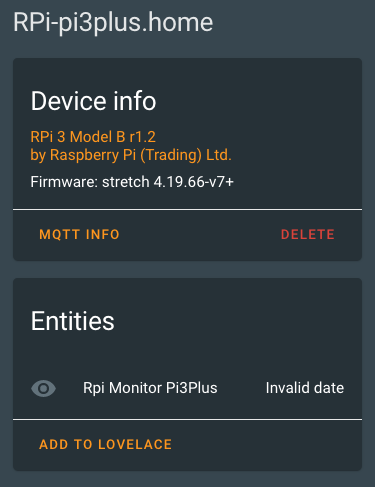
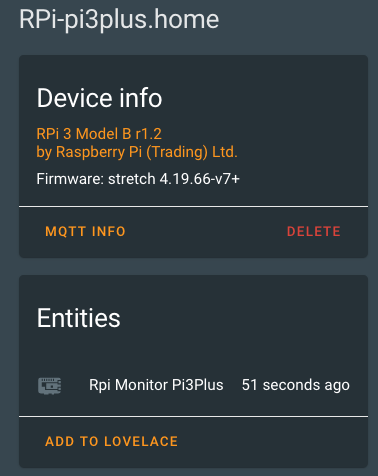
Latest working changes
- Leave + in *nix version
- Add scale to keynames
- minor README changes

diff --git a/ISP-RPi-mqtt-daemon.py b/ISP-RPi-mqtt-daemon.py
@@ -221,7 +221,7 @@ def getLinuxVersion():
            stdout=subprocess.PIPE, 
            stderr=subprocess.STDOUT)
     stdout,stderr = out.communicate()
-    rpi_linux_version = stdout.decode('utf-8').rstrip().replace('+', 'plus')
+    rpi_linux_version = stdout.decode('utf-8').rstrip()
     print_line('rpi_linux_version=[{}]'.format(rpi_linux_version), debug=True)
     
 
@@ -541,13 +541,26 @@ RPI_LINUX_RELEASE = "ux_release"
 RPI_LINUX_VERSION = "ux_version" 
 RPI_UPTIME = "up_time"
 RPI_DATE_LAST_UPDATE = "last_update"
-RPI_FS_SPACE = 'fs_total' # "fs_space_gbytes"
-RPI_FS_AVAIL = 'fs_free' # "fs_available_prcnt"
+RPI_FS_SPACE = 'fs_total_gb' # "fs_space_gbytes"
+RPI_FS_AVAIL = 'fs_free_prcnt' # "fs_available_prcnt"
 RPI_TEMP = "temperature_c"
 RPI_SCRIPT = "reporter"
 
 
 def send_status(timestamp, nothing):
+    global rpi_model
+    global rpi_connections
+    global rpi_hostname
+    global rpi_fqdn
+    global rpi_linux_release
+    global rpi_linux_version
+    global rpi_uptime
+    global rpi_last_update_date
+    global rpi_filesystem_space
+    global rpi_filesystem_percent
+    global rpi_system_temp
+    global rpi_mqtt_script
+
     rpiData = OrderedDict()
     rpiData[SCRIPT_TIMESTAMP] = timestamp.astimezone().replace(microsecond=0).isoformat()
     rpiData[RPI_MODEL] = rpi_model

diff --git a/README.md b/README.md
@@ -36,26 +36,32 @@ Each RPi device is reported as:
 | `Model`         | RPi 4 Model B v1.1  |
 | `Name`      | (fqdn) pimon1.home |
 | `sofware ver`  | OS Name, Version (e.g., Buster v4.19.75v7l+) |
-| `mac addr`       | mac: 00:00:00:00:00:00 |
-| `Ether IP addr`       | eth0: 00.00.00.00 |
-| `WiFi IP addr`       | wlan0: 00.00.00.00 |
 
-### Readings
 
-The RPi set of sensors provide the following readings:
+### RPi Monitor
+
+The monitored information is:
 
 | Name            | Description |
 |-----------------|-------------|
+| `rpi_model`     | tinyfied hardware version string |
+| `ifaces`        | comma sep list of interfaces on board [w,e,b] |
 | `temperature_c `   | System temperature, in [°C] (0.1°C resolution) |
-| `uptime`      | duration since last booted, as [days] |
-| `updated`  | updates last applied, as [date] |
-| `f/s size`       | total space in [GBytes] |
-| `f/s avail.`       | free space [%] |
-| `hostname `       | hostname |
+| `up_time`      | duration since last booted, as [days] |
+| `last_update`  | updates last applied, as [date] |
+| `fs_total_gb`       | total space in [GBytes] |
+| `fs_free_prcnt`       | free space [%] |
+| `host_name `       | hostname |
 | `fqdn `       | hostname.domain |
-| `linux_release `       | os release name (e.g., buster) |
-| `linux_version `       | os version (e.g., 4.19.66-v7+) |
-
+| `ux_release `       | os release name (e.g., buster) |
+| `ux_version `       | os version (e.g., 4.19.66-v7+) |
+| `fs_free_prcnt`  | script name, version running on RPi |
+| `ethernet`       |  |
+|        | mac: 00:00:00:00:00:00  |
+|        | eth0: 00.00.00.00 | 
+| `wifi`       |  |
+|        | mac: 00:00:00:00:00:00  |
+|        | wlan0: 00.00.00.00 | 
 
 ## Prerequisites
 
@@ -69,7 +75,7 @@ On a modern Linux system just a few steps are needed to get the daemon working.
 The following example shows the installation under Debian/Raspbian below the `/opt` directory:
 
 ```shell
-sudo apt install git python3 python3-pip
+sudo apt-get install git python3 python3-pip
 
 sudo git clone https://github.com/ironsheep/RPi-Reporter-MQTT2HA-Daemon.git /opt/ISP-RPi-mqtt-daemon
 
